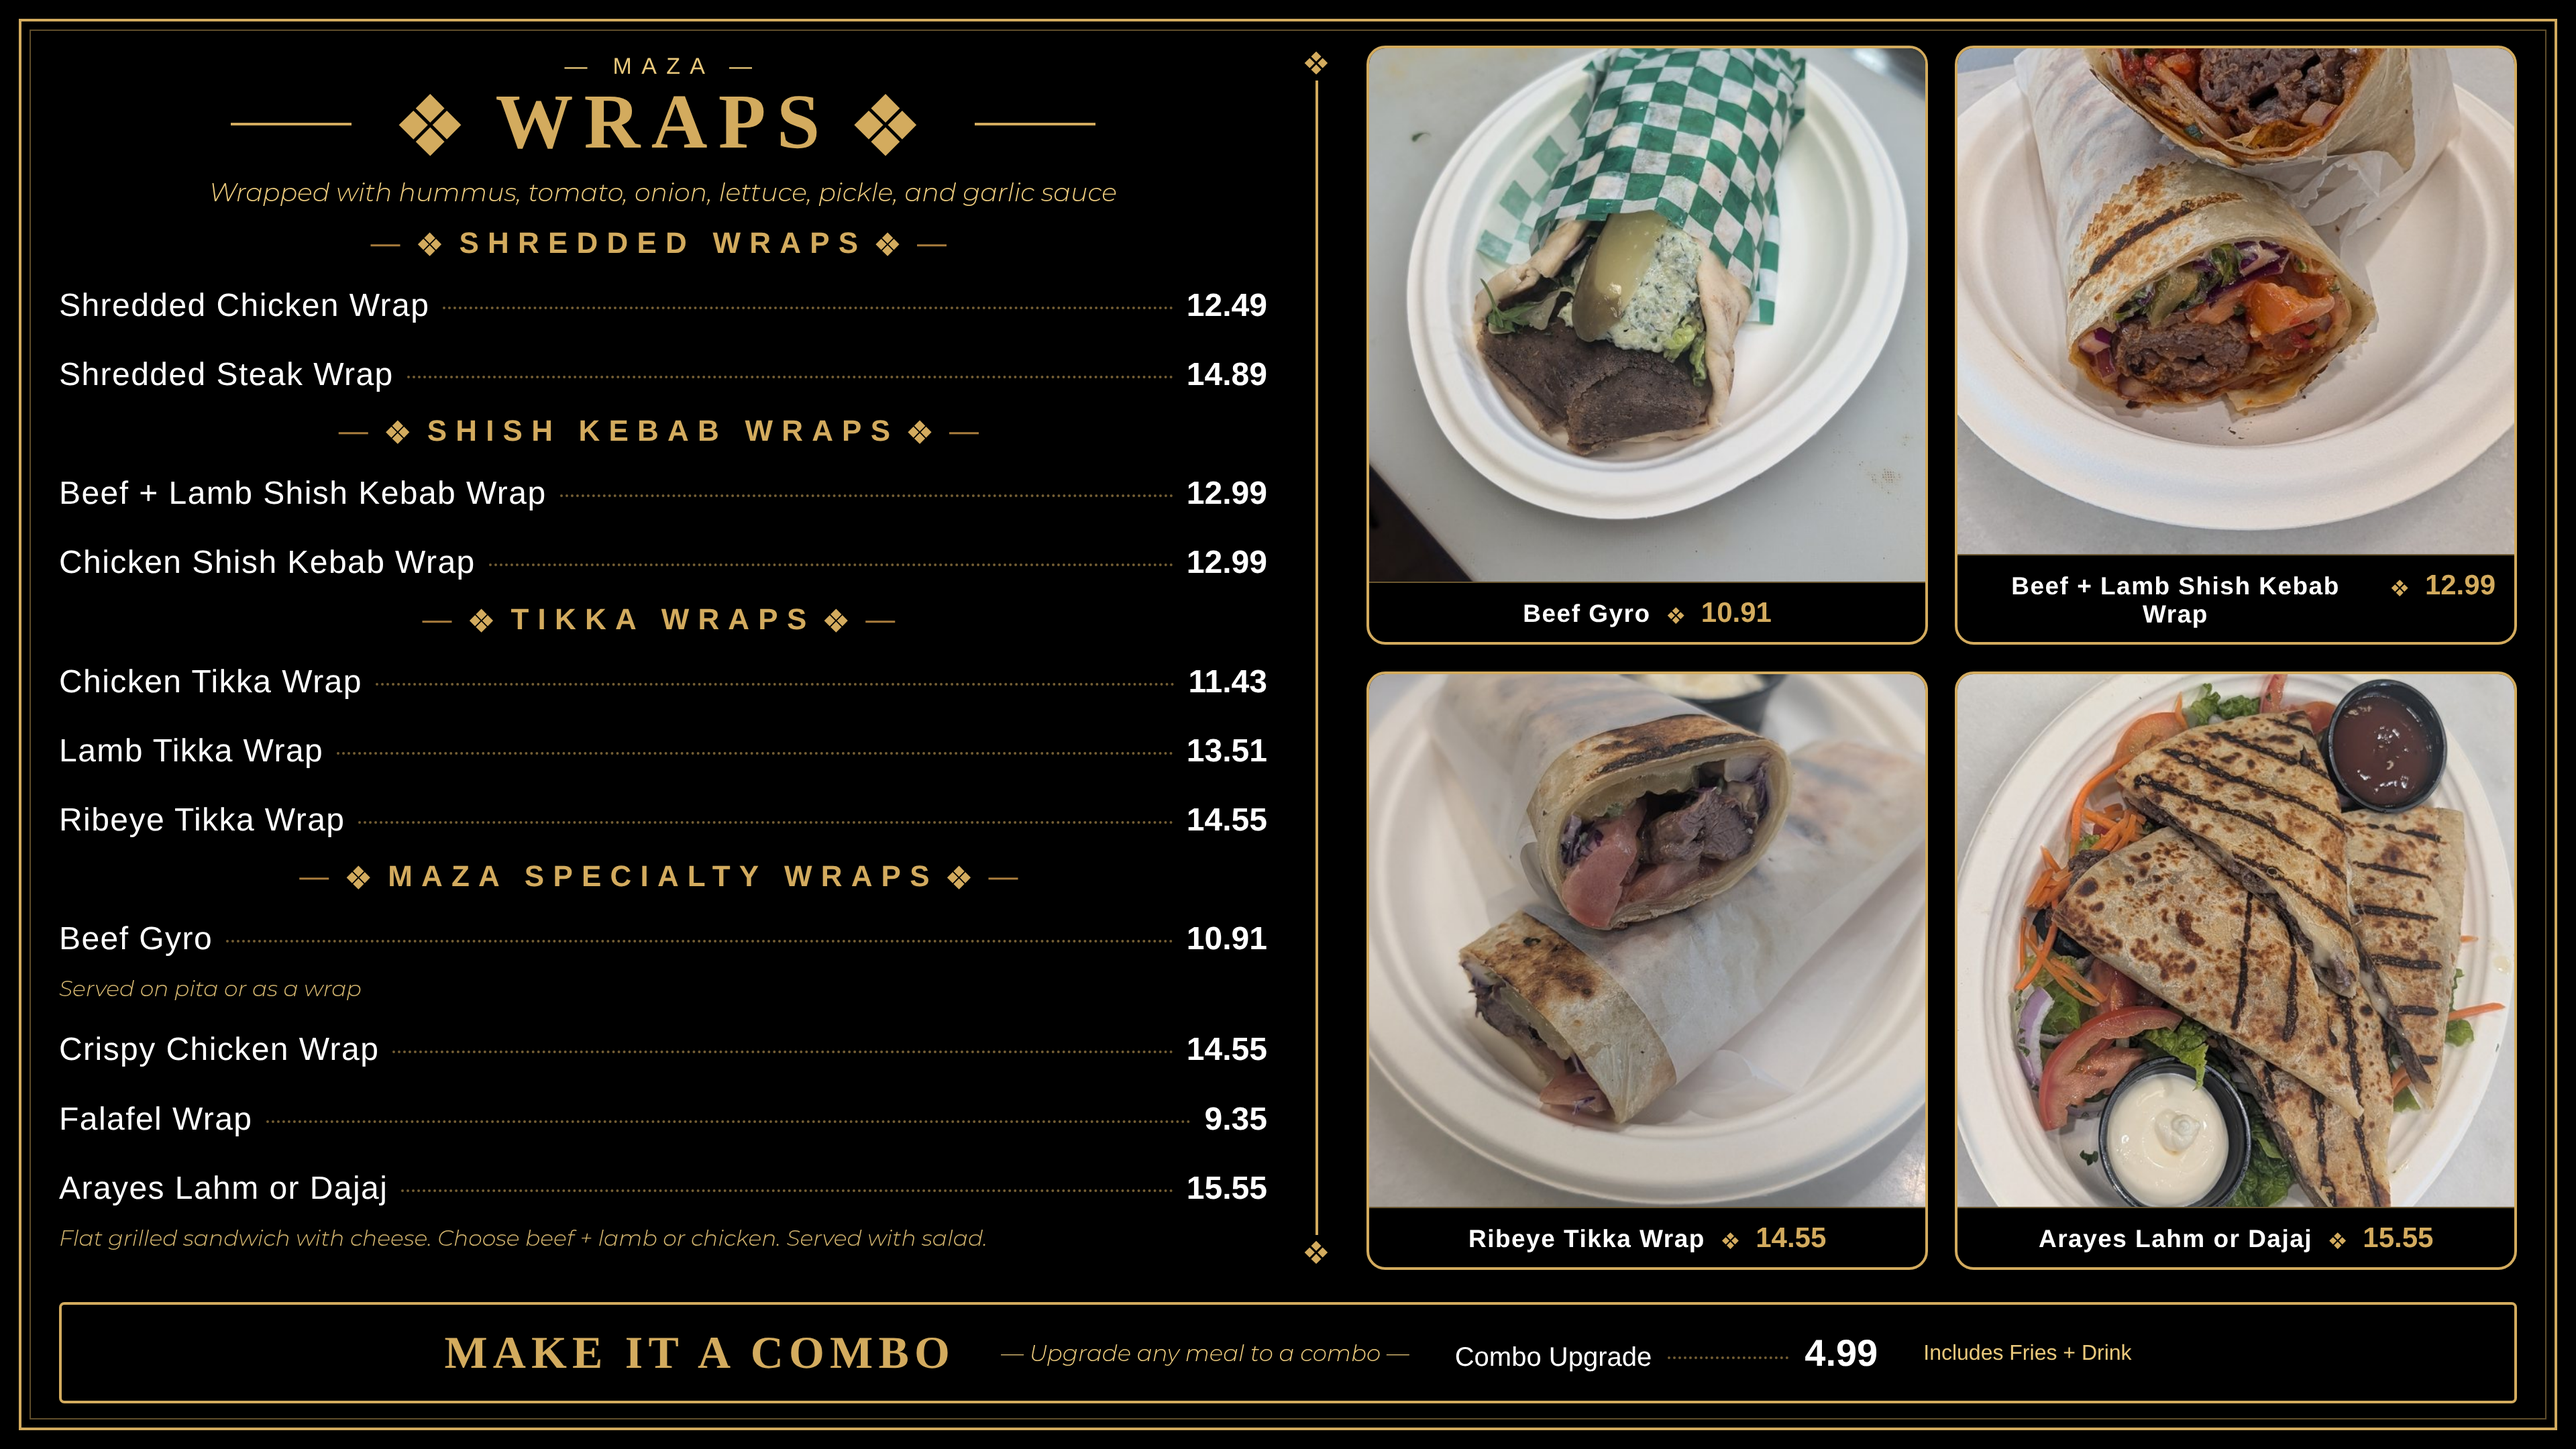
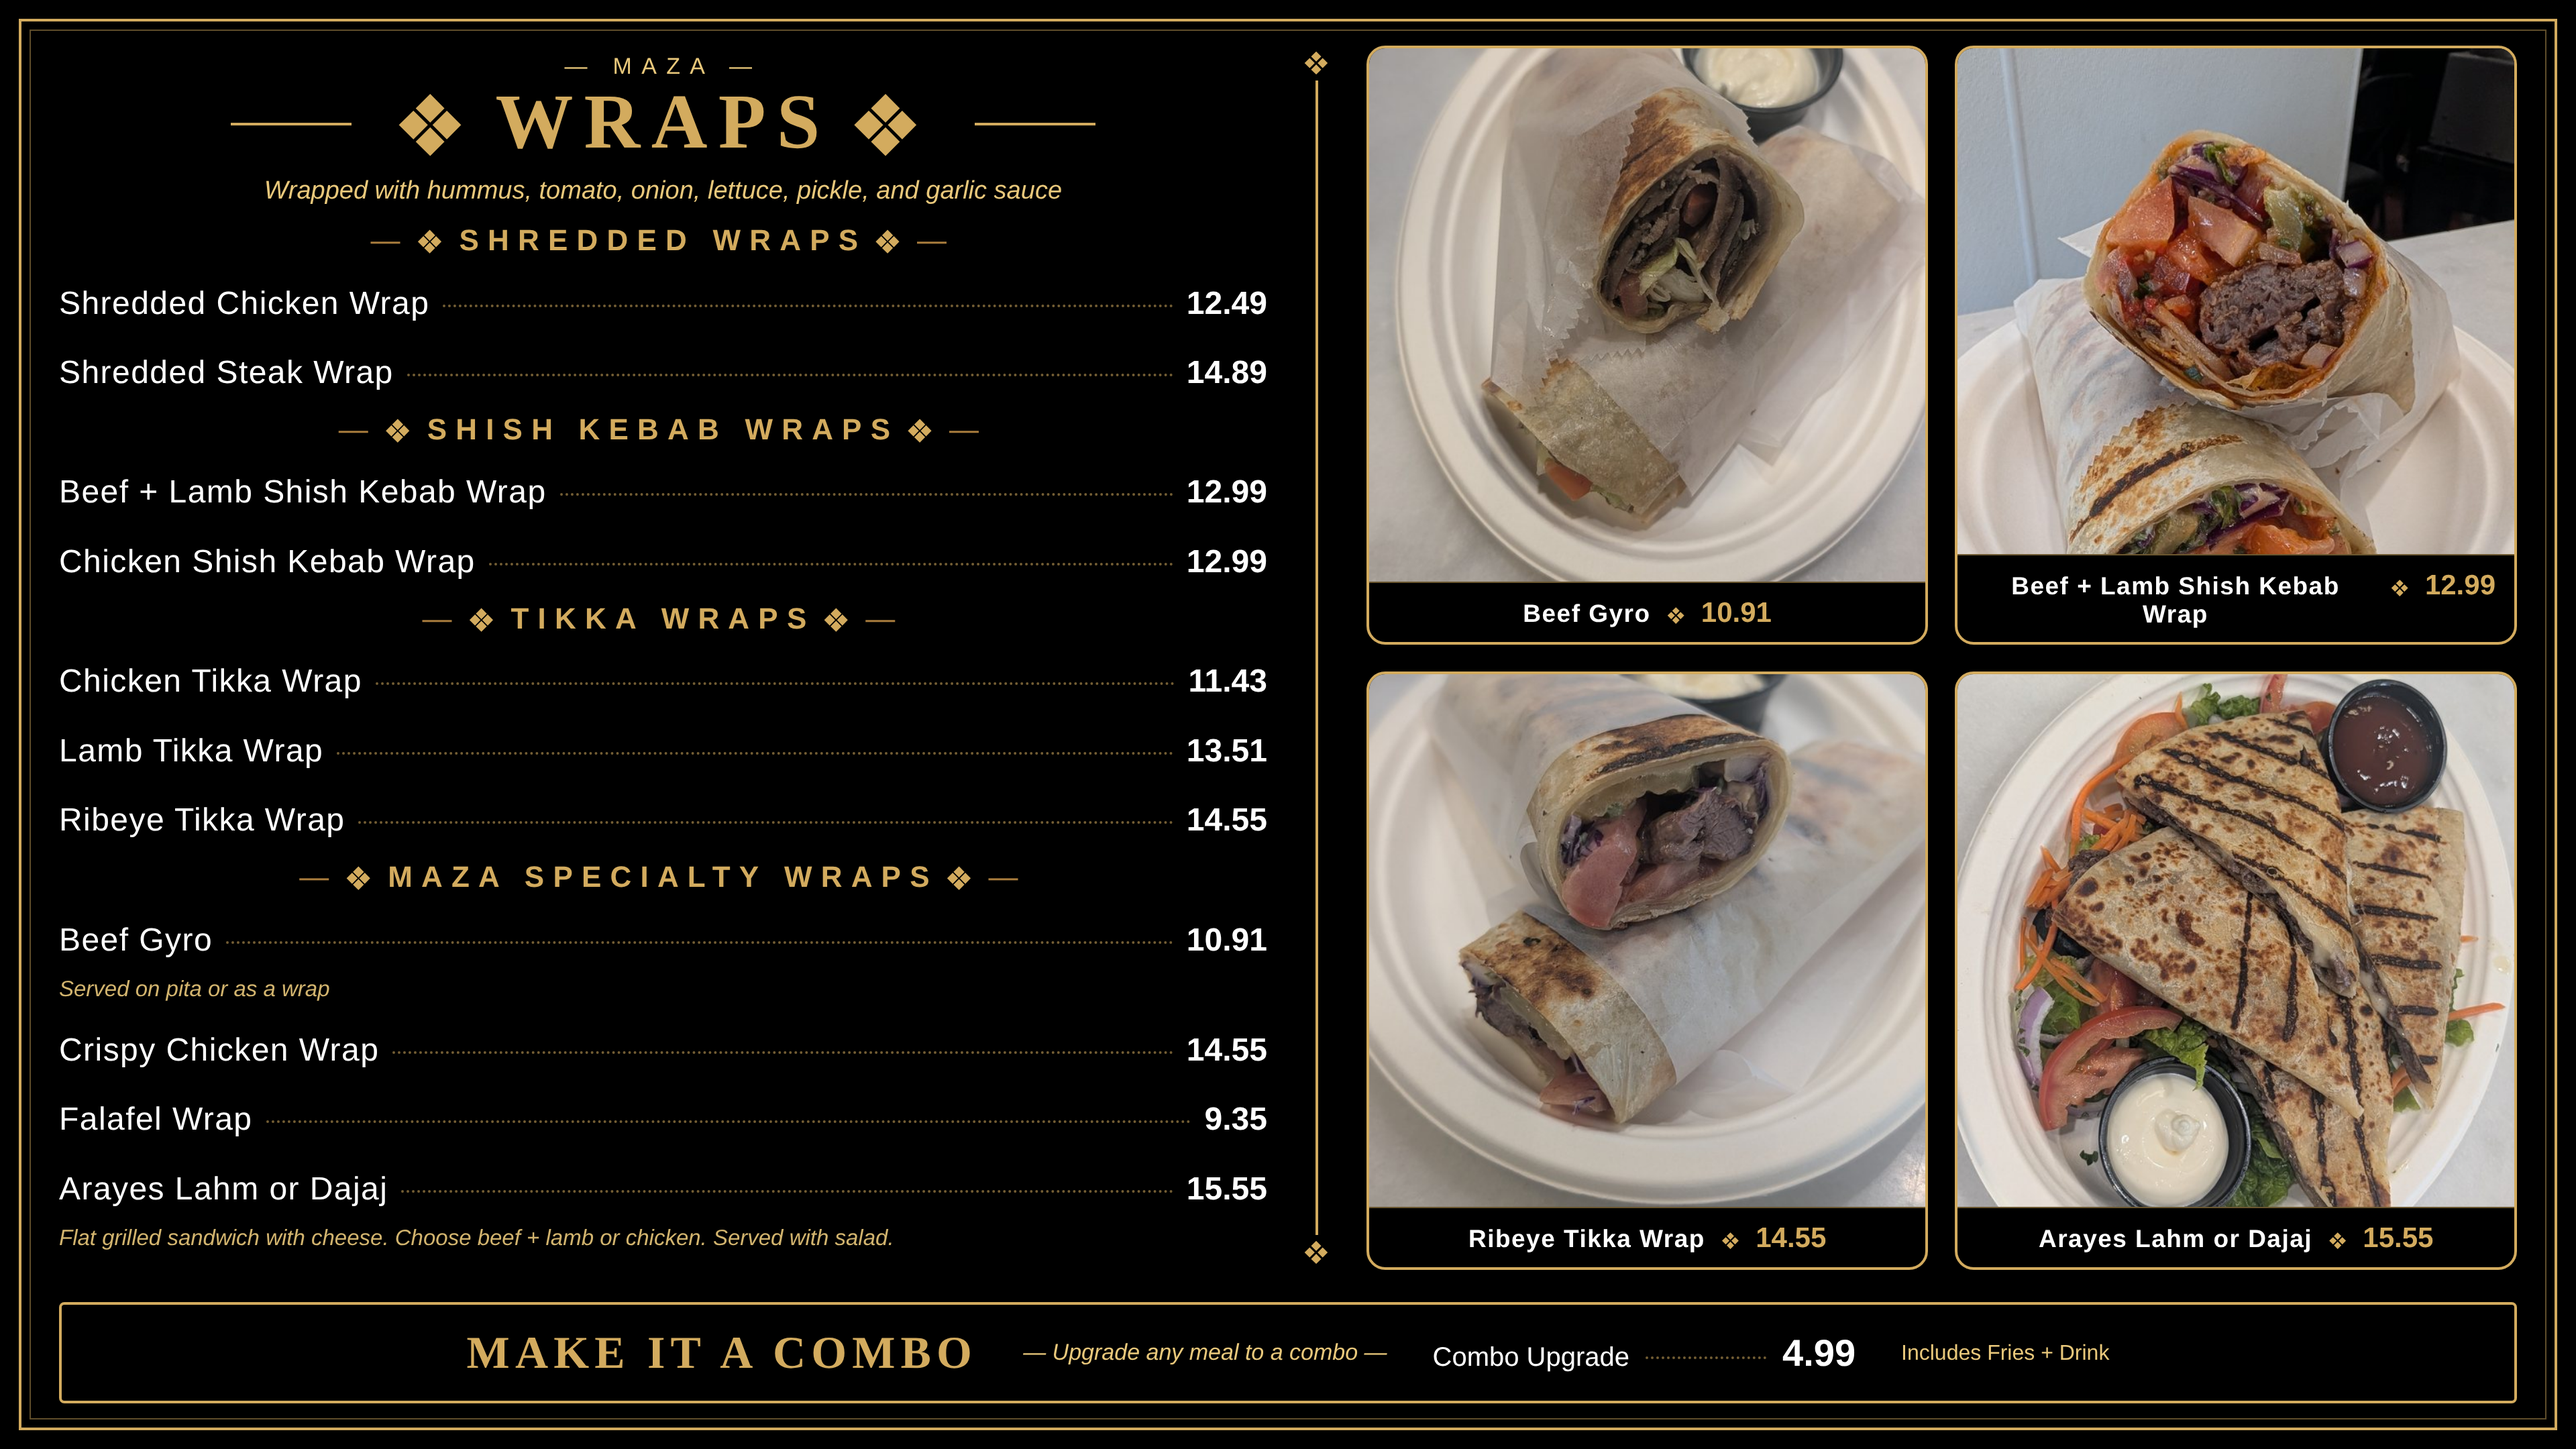
html-menus: photo fixes, shredded steak gallery swap, cashew baklava

diff --git a/html-menus/out/screen3-loaded.html b/html-menus/out/screen3-loaded.html
@@ -141,7 +141,7 @@
       
     </div>
     <figure>
-      <div class="photo-card"><img src="../photos/burgers-beef-burger.jpg" alt=""></div>
+      <div class="photo-card"><img src="../photos/kids-meals-crispy-chicken-sandwich.jpg" alt=""></div>
     </figure>
     <div class="mini-block">
       <h2 class="band-title">Kids Meals</h2>
@@ -153,7 +153,7 @@
       
     </div>
     <figure>
-      <div class="photo-card"><img src="../photos/kids-meals-crispy-chicken-sandwich.jpg" alt=""></div>
+      <div class="photo-card"><img src="../photos/kids-meals-all-beef-burger.jpg" alt=""></div>
     </figure>
     <div class="s3-sides">
       <h2 class="band-title"><span class="rule"></span>Sides<span class="rule"></span></h2>
@@ -230,12 +230,12 @@
   <div class="s3-row3">
     <div class="s3-desserts">
       <figure>
-        <div class="photo-card"><img src="../photos/baklava-walnut-or-pistachio.jpg" alt=""></div>
+        <div class="photo-card"><img src="../photos/baklava-cashew-or-pistachio.jpg" alt=""></div>
       </figure>
       <div class="text-block">
         <h2 class="band-title">Desserts</h2>
         
-        <div class="tv-item"><span class="name">Baklava — Walnut or Pistachio</span><span class="dots"></span><span class="price">3.99</span></div>
+        <div class="tv-item"><span class="name">Baklava — Cashew or Pistachio</span><span class="dots"></span><span class="price">3.99</span></div>
         
       </div>
     </div>

diff --git a/html-menus/out/full-menu.html b/html-menus/out/full-menu.html
@@ -629,9 +629,9 @@
     <div class="items compact">
       
       <div class="item">
-        <img class="item-photo" src="../photos/baklava-walnut-or-pistachio.jpg" alt="Walnut or Pistachio">
+        <img class="item-photo" src="../photos/baklava-cashew-or-pistachio.jpg" alt="Cashew or Pistachio">
         <div class="item-head">
-          <span class="item-name">Walnut or Pistachio</span>
+          <span class="item-name">Cashew or Pistachio</span>
           <span class="item-leader"></span>
           <span class="item-price">$3.99</span>
         </div>

diff --git a/html-menus/out/screen2-plates.html b/html-menus/out/screen2-plates.html
@@ -198,8 +198,8 @@
         </figure>
         
         <figure>
-          <div class="photo-card"><img src="../photos/plates-appetizer-plate.jpg" alt="Appetizer Plate"></div>
-          <figcaption class="photo-caption">Appetizer Plate</figcaption>
+          <div class="photo-card"><img src="../photos/plates-shredded-steak-plate.jpg" alt="Shredded Steak Plate"></div>
+          <figcaption class="photo-caption">Shredded Steak Plate</figcaption>
         </figure>
         
       </div>

diff --git a/html-menus/out/screen1-wraps.html b/html-menus/out/screen1-wraps.html
@@ -28,6 +28,8 @@
   }
   .s1-card .photo-card { flex: 1; min-height: 0; }
   .s1-card .photo-card img { border: none; border-radius: 0; height: 100%; }
+  /* keep tall wrap photos from decapitating the food in the square cards */
+  .s1-card img[alt="Beef + Lamb Shish Kebab Wrap"] { object-position: center top; }
   .s1-card .card-detail {
     display: flex; align-items: baseline; justify-content: center; gap: 12px;
     padding: 10px 14px;

diff --git a/html-menus/templates/tv-screen1.html b/html-menus/templates/tv-screen1.html
@@ -28,6 +28,8 @@
   }
   .s1-card .photo-card { flex: 1; min-height: 0; }
   .s1-card .photo-card img { border: none; border-radius: 0; height: 100%; }
+  /* keep tall wrap photos from decapitating the food in the square cards */
+  .s1-card img[alt="Beef + Lamb Shish Kebab Wrap"] { object-position: center top; }
   .s1-card .card-detail {
     display: flex; align-items: baseline; justify-content: center; gap: 12px;
     padding: 10px 14px;
